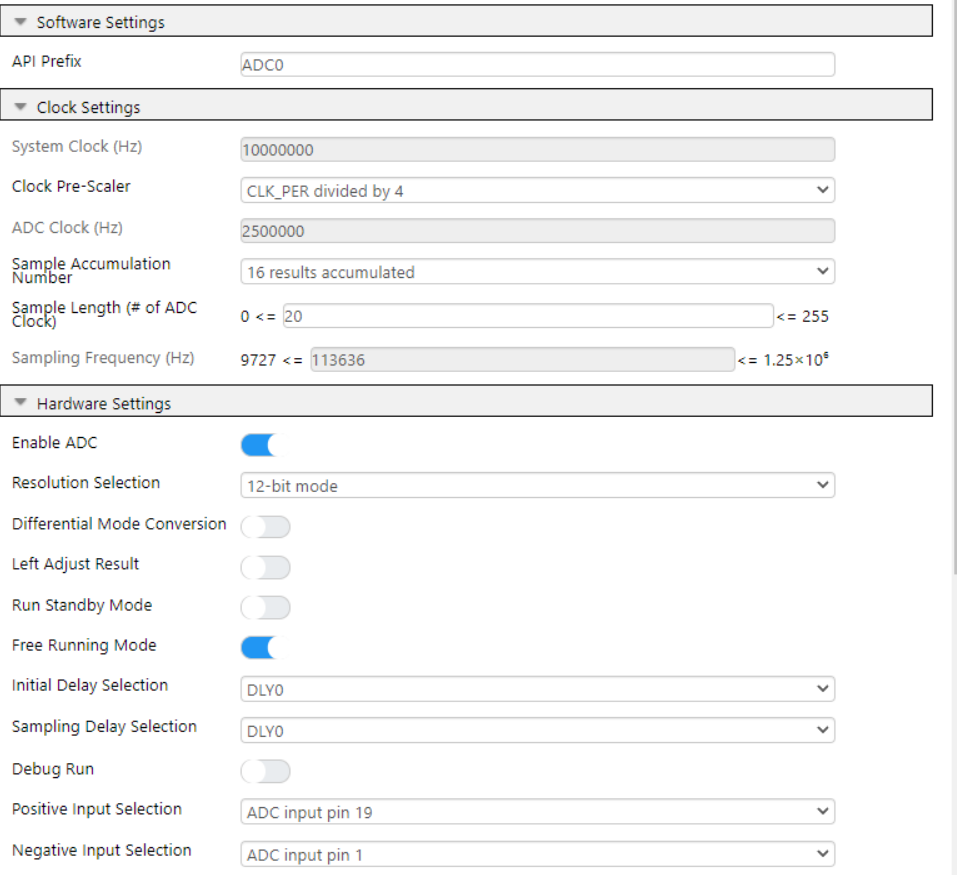
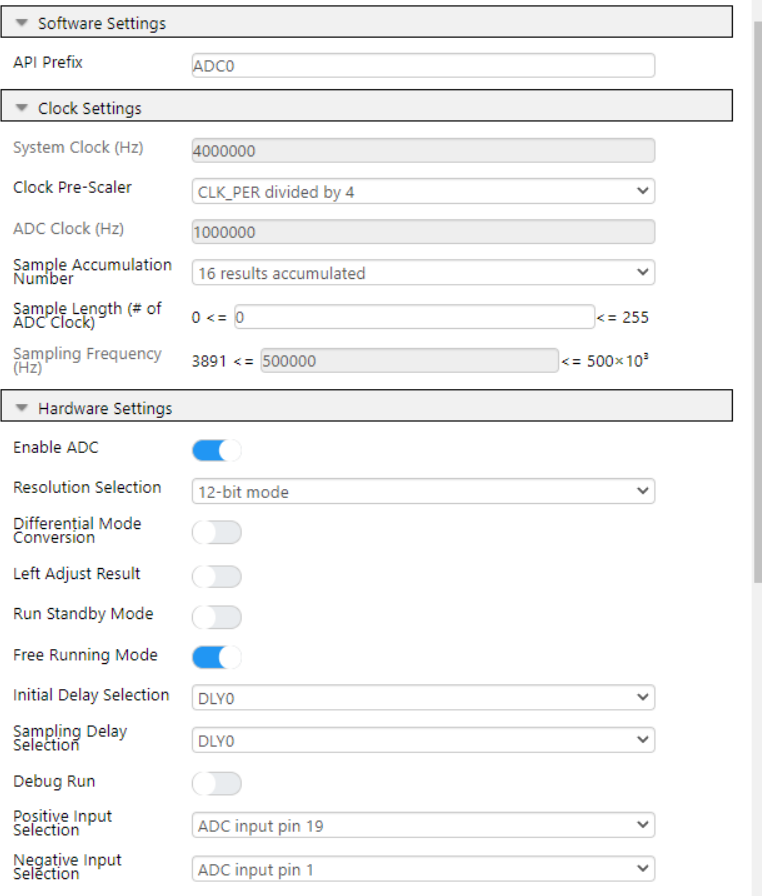
MPAE-14592: Updated readme

Changed region(s): [[0.0, 0.0, 1.0, 1.0]]

diff --git a/README.md b/README.md
@@ -49,7 +49,9 @@ Demonstration showing the harder the force-sensitive resistor is pressed, the mo
 
 Setup the hardware as shown:
 
-![Hardware Setup](images/hardware_setup.JPG)
+![Hardware Setup](images/hardware_setup.JPG){width=50%}
+
+In the image above, there is an option 3D printed insert that goes below the Force Click to give the force resistor support. It is convenient, but not necessary at all.
 
 Configure the software using either a pre-compiled binary, or manually configure everything yourself.
 
@@ -70,7 +72,7 @@ Setup from scratch - everything is manually configured from scratch, except for 
 1. Create project
  - Setup the hardware as shown in the picture above and plug it into your computer
  - In MPLAB X, select File -> New Project -> Microchip Embedded -> Standalone Project
- - Device: AVR64DD32, Tool -> Curiosity Nano (the tool option can be selected later)
+ - Device: AVR64DD32, Tool -> AVRDD64DD32 Curiosity Nano  SN:...
  - Compiler Toolchain -> select any XC8 compiler (v2.36+)
  - Select project name/location of your choosing, click finish.
 
@@ -78,65 +80,67 @@ Setup from scratch - everything is manually configured from scratch, except for 
 2. Setup MCC configuration (MCC handles all the hardware specific implementation details)
 
   Launch MCC Melody (Tools -> Embedded -> MCC Code configurator -> Select MCC Melody -> Finish).
- We now need to setup the system clock, ADC, UART, and pin configuration. After setting all these things, main.c and RGBClick_4x4.c will handle everything else.
- 1. Set sysclk to 10Mhz to give head room for the ADC's calculations
-    - Project Resources -> System -> CLKCTRL
+ We now need to setup the ADC, UART, and pin configuration. After setting all these things, main.c and RGBClick_4x4.c will handle everything else.
 
+  2.1. Set ADC configuration
+    - Project resources -> Drivers -> ADC -> + ADC0
 
+    ![ADC settings](images/adc_settings.png)(width=50%)
 
+    Configuration explanation:
+  - Sample Accumulation Number: This takes multiple samples before reporting a result. This filters out misnomers, giving a cleaner result. 16 is used instead of more because that is the maximum accumulation size amount (16-bits) the AVR64DD32 supports for a 12-bit reading.
 
-  Configuration explanation:
+    Math: (Max 12-bit reading = 2^12 = 4096) *(16 readings) = 65536 = 2^16, which is the size of the accumulation register.
 
-  2. Set ADC configuration
-    - Project resources -> Drivers -> ADC -> ADC0
-
-![ADC settings](images/adc_settings.png)
-
-  Configuration explanation:
-  - Clock pre-scalar:
-  - Sample Accumulation Number: 16 results are used because that is the maximum accumulation size the AVR64DD32 supports
-
-  ![ADC settings](images/accumulation.png)
-
-  From: AVR64DD32 datasheet page 491
-  - Sample Length:
+    ![ADC settings](images/accumulation.png)(width=50%) From: AVR64DD32 datasheet page 491
+  - Left Adjust Result: The 12-bit value read is stored in a 16-bit register. This either left or right-justifies the result
   - Free Running Mode: Automatically starts the next ADC conversion as soon as the last one is finished.
   - Positive Input Selection: As shown in the picture below, the Force Click's Analog Pin, AN, is in the top left position. Since it is in the Curiosity base board's slot 2, that corresponds to the Curiosity Nano base board's 13th pin. On the AVR64DD32, the 13th pin is PORTF3, also known as AIN19, thus Analog input 19.
-
   ![Pin Settings](images/pin_selection.png)
 
-  3. Set UART configuration
-  - Project Resources -> System -> UART -> UART0
-
-  Configuration explanation:
-
-  4. Set Pin Configuration
+  2.2. Set UART configuration
+  - Device Resources -> Drivers -> UART -> + UART
+  - Select USART0
+  ![UART Settings](images/uart1.png)
+  - Select USART0_Peripherals, enable printf support
+  ![Printf](images/printf_support.png)
+  2.3. Set Pin Configuration
     - Set pins in Pin Grid View
     - ADC0 -> PORTF3
     - Pins, GPIO Output -> PORTD7
     - USART0, Tx -> PORTD4
     - USART0, Rx -> PORTD5
+  ![Pin Settings](images/pin_grid_view.png)
+
   5. Set Pin Name
-  - Drivers -> System -> Pins
-    Set a name of pin PD7 to RGB_LED
-    6. Generate code
+  - Project Resources -> System -> Pins
+    - Set a name of pin PD7 to RGB_LED
+    - Change the Input Sense Configuration for the ADC0 pin to Digital Input Buffer disabled
+  ![Pins](images/pins.png)
+  6. Generate code
     - Project Resources -> Generate
+
+  You can now close MCC
+
+
 3. Insert C files into Project
-  - Right-click source files -> add existing item -> main.c, RGBClick_4x4.c
-  - Right-click header file -> add existing item -> RGBClick_4x4.h
+  - Copy main.c, RGBClick_4x4.c, and RGBClick_4x4.h into your project directory
+  - Under the projects tab, right-click source files -> add existing item -> main.c, RGBClick_4x4.c
+  - Right-click header files -> add existing item -> RGBClick_4x4.h
 4. Make and Program Device
 
 
 ## Operation
 <a id="operation"></a>
 <!-- Explain how to operate the example. Depending on complexity, step-by-step instructions and/or tables and/or images can be used -->
+To verify the LED array is connected and configured properly, on boot, the array will strobe random colors, green, then red before turning off.
 
+When you press on the resistor, the LEDs should light up proportionally. When the resistor is 100% pressed down, the lights will strobe different colors
 
-When you press on the resistor, the LEDs should light up proportionally. This will also verify your hardware is connected properly.
-
-To view the pressure the resistor is reporting, open MPLAB data visualizer.
+To view the pressure the resistor is reporting, open MPLAB data visualizer from the toolbar.
 Under connections, select the COM port the Curiosity Nano is connected to and hit play.
 Under the terminal input, select the same COM port. The pressure should now be displaying on the terminal.
+![Data visualizer](images/data_vis_output.png)
 
 ## Summary
 
